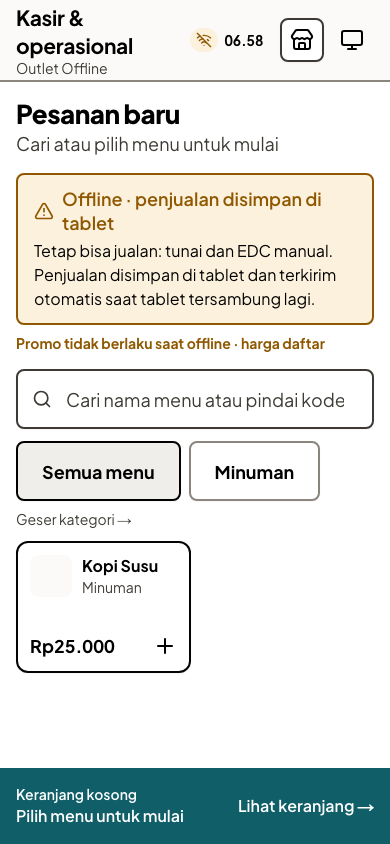
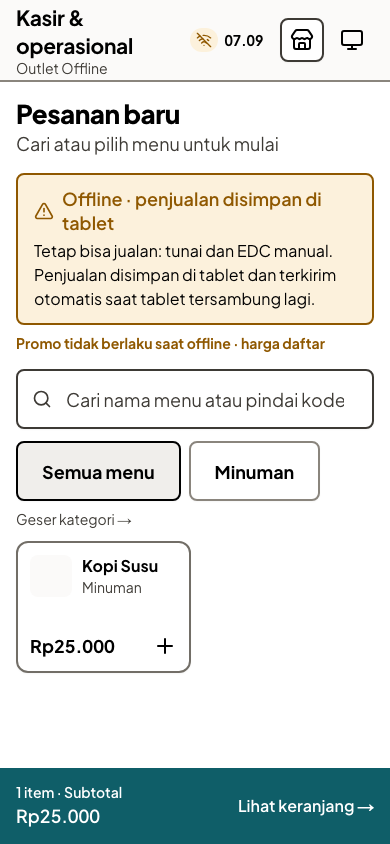
fix(pos): offline navigation keeps last root context; e2e offline scenario WIP
Root beforeLoad read session/brand from the server on every client
navigation, so offline 'Lihat keranjang' landed on the error page.

diff --git a/e2e-offline/pos-offline.spec.ts b/e2e-offline/pos-offline.spec.ts
@@ -1,7 +1,7 @@
 // O5 (legend-wasr7.9): the cashier tablet offline, in a real browser on a
 // tenant host. See playwright.offline.config.ts for the harness.
 //
-// STATUS (27 Nov): WIP, blocked at the first sale. Harness proven (tenant host,
+// STATUS (27 Nov): full scenario. Harness proven (tenant host,
 // cookie domain, session, shift, kit, real offline, screenshots); a click on the
 // menu tile "Kopi Susu" does not add it to the cart in this build, see
 // docs/briefs/1272-o5-progress.md.
@@ -304,6 +304,18 @@ test("the offline till: sell, queue, close refused, ingest once, sign out", asyn
   test.setTimeout(240_000);
   await page.addInitScript((token) => {
     window.localStorage.setItem("legend.device.token", token);
+    // Harness only: these http test origins are not secure contexts (production
+    // is https), so Chromium hides crypto.randomUUID, which the cart needs for
+    // its line ids. Found 27 Nov: without it "Kopi Susu" never reaches the cart.
+    if (typeof crypto.randomUUID !== "function")
+      (crypto as { randomUUID: () => string }).randomUUID = () =>
+        "10000000-1000-4000-8000-100000000000".replace(/[018]/g, (c) =>
+          (
+            Number(c) ^
+            (crypto.getRandomValues(new Uint8Array(1))[0]! &
+              (15 >> (Number(c) / 4)))
+          ).toString(16),
+        ) as `${string}-${string}-${string}-${string}-${string}`;
   }, deviceToken());
   await page.goto("/sign-in");
   const signIn = await browserCall(page, "POST", "/api/auth/sign-in/email", {
@@ -337,15 +349,12 @@ test("the offline till: sell, queue, close refused, ingest once, sign out", asyn
   await expect(offlineBanner).toBeVisible({ timeout: 40_000 });
   await shot(page, "banner");
 
-  // Phones: the cart is its own view, and opening it is a navigation of the
-  // app that needs the internet. Open it while online, then cut the internet
-  // again; the cart and the offline kit stay on the tablet.
-  await context.setOffline(false);
-  await expect(offlineBanner).toBeHidden({ timeout: 60_000 });
+  // Phones: the cart is its own view and opening it is a navigation of the
+  // app. Offline it must still work (release bug found 27 Nov: the root
+  // beforeLoad read the session from the server and landed on "Terjadi
+  // kesalahan"). The cart and the offline kit stay on the tablet.
   await page.getByRole("button", { name: /Lihat keranjang/ }).click();
   await expect(page.getByText("Subtotal · 1 item").first()).toBeVisible();
-  await context.setOffline(true);
-  await page.waitForTimeout(3_000);
 
   for (const viewport of VIEWPORTS) {
     await page.setViewportSize(viewport);
@@ -366,7 +375,7 @@ test("the offline till: sell, queue, close refused, ingest once, sign out", asyn
     await shot(page, "bayar");
     await pay.getByRole("button", { name: "Simpan penjualan" }).click();
     await expect(
-      page.getByText("Penjualan disimpan di tablet").first(),
+      page.getByRole("heading", { name: "Penjualan disimpan di tablet" }),
     ).toBeVisible();
     await shot(page, "tersimpan");
     await page
@@ -384,12 +393,14 @@ test("the offline till: sell, queue, close refused, ingest once, sign out", asyn
   // Nothing reached the cloud while the tablet was offline.
   expect(await offlineSales()).toEqual([]);
 
-  // Shift close is refused while the queue is not empty (the screen is opened
-  // by the app's own router: the tablet has no internet to load a new page).
-  await page.evaluate(() => {
-    window.history.pushState({}, "", "/pos/shift/tutup");
-    window.dispatchEvent(new PopStateEvent("popstate"));
-  });
+  // Shift close is refused while the queue is not empty. The tablet gets its
+  // internet back but the batch endpoint keeps failing (a flaky link), so the
+  // two sales stay on the tablet; the close screen is a real page load.
+  await context.route("**/api/outlets/*/pos/offline-batch", (route) =>
+    route.abort(),
+  );
+  await context.setOffline(false);
+  await page.goto("/pos/shift/tutup");
   await expect(page.getByText("Shift belum bisa ditutup").first()).toBeVisible({
     timeout: 30_000,
   });
@@ -399,10 +410,10 @@ test("the offline till: sell, queue, close refused, ingest once, sign out", asyn
   await shot(page, "keluar");
   await page.getByRole("button", { name: "Tetap di sini" }).click();
   expect(await offlineSales()).toEqual([]);
+  await context.unroute("**/api/outlets/*/pos/offline-batch");
 
   // The internet is back: the queue sends itself, the cloud holds each sale
   // once, at the price the tablet showed (Rp25.000 + PBJT 10%).
-  await context.setOffline(false);
   await expect
     .poll(async () => (await offlineSales()).length, { timeout: 120_000 })
     .toBe(2);

diff --git a/apps/web/src/routes/__root.tsx b/apps/web/src/routes/__root.tsx
@@ -20,6 +20,7 @@ import { Button } from "@/components/ui/button";
 import { PushOwnerGuard } from "@/features/ws05-notifications/components/push-owner-guard";
 import { isScreenClosedOnSharedDevice } from "@/lib/areas/guard";
 import { loadAreaAccess } from "@/lib/areas/load-access";
+import { loadWithOfflineFallback } from "@/lib/offline-navigation";
 import type { AreaAccess } from "@/lib/areas/access";
 import { getSessionFn, type Session } from "@/lib/session";
 import { getTenantBrandFn } from "@/lib/tenant-brand-fn";
@@ -49,38 +50,54 @@ export type RouterContext = {
   textOverrides: MessageOverrides;
 };
 
+type RootContext = Pick<
+  RouterContext,
+  "session" | "access" | "tenantTheme" | "textOverrides"
+>;
+
+// Browser-only memory of the last resolved root context (see beforeLoad).
+let lastRootContext: RootContext | null = null;
+
+async function loadRootContext(): Promise<RootContext> {
+  const [session, brand] = await Promise.all([
+    getSessionFn(),
+    getTenantBrandFn(),
+  ]);
+  const isBrowser = typeof window !== "undefined";
+  let tenantTheme: TenantThemeConfig | null;
+  if (brand.kind === "error") {
+    // A transient API failure keeps the theme the browser already showed.
+    // Browser only: a module variable on the server would leak across hosts.
+    tenantTheme = isBrowser ? lastTenantTheme : null;
+  } else {
+    tenantTheme = brandContextToThemeConfig(
+      brand.kind === "brand" ? brand.brand : null,
+    );
+    if (isBrowser) lastTenantTheme = tenantTheme;
+  }
+  const access = await loadAreaAccess(session);
+  return { session, access, tenantTheme, textOverrides: brand.overrides };
+}
+
 export const Route = createRootRouteWithContext<RouterContext>()({
   // One session read per navigation (the API, via the auth middleware), shared
   // with every route as context. Layouts decide what to do with it; the API
   // still authenticates every request on its own.
   beforeLoad: async ({ location }) => {
-    const [session, brand] = await Promise.all([
-      getSessionFn(),
-      getTenantBrandFn(),
-    ]);
     const isBrowser = typeof window !== "undefined";
-    let tenantTheme: TenantThemeConfig | null;
-    if (brand.kind === "error") {
-      // A transient API failure keeps the theme the browser already showed.
-      // Browser only: a module variable on the server would leak across hosts.
-      tenantTheme = isBrowser ? lastTenantTheme : null;
-    } else {
-      tenantTheme = brandContextToThemeConfig(
-        brand.kind === "brand" ? brand.brand : null,
-      );
-      if (isBrowser) lastTenantTheme = tenantTheme;
-    }
-    const access = await loadAreaAccess(session);
+    // Browser only: with the internet gone (offline till) the last context the
+    // browser resolved stays in force (see lib/offline-navigation).
+    const { session, access, tenantTheme, textOverrides } = isBrowser
+      ? (lastRootContext = await loadWithOfflineFallback(
+          loadRootContext,
+          lastRootContext,
+        ))
+      : await loadRootContext();
     // Shared tablet (founder Q29): screens outside the allowlist do not exist
     // there, in every area. The API refuses their requests as well.
     if (isScreenClosedOnSharedDevice(access, location.pathname))
       throw notFound({ data: { sharedDevice: true } });
-    return {
-      session,
-      access,
-      tenantTheme,
-      textOverrides: brand.overrides,
-    };
+    return { session, access, tenantTheme, textOverrides };
   },
   head: () => ({
     meta: [
@@ -101,10 +118,15 @@ export const Route = createRootRouteWithContext<RouterContext>()({
 });
 
 function RootLayout() {
-  const userId = useRouteContext({
-    from: rootRouteId,
-    select: (context) => context.session?.user.id ?? null,
-  });
+  const rootContext = useRouteContext({ from: rootRouteId });
+  const userId = rootContext.session?.user.id ?? null;
+  // The first page is rendered by the server, so the browser has not resolved
+  // a context itself yet: remember the one it hydrated with, for the offline
+  // till (see lib/offline-navigation).
+  useEffect(() => {
+    const { session, access, tenantTheme, textOverrides } = rootContext;
+    lastRootContext = { session, access, tenantTheme, textOverrides };
+  }, [rootContext]);
   return (
     <>
       <PushOwnerGuard userId={userId} />

diff --git a/apps/web/test/offline-navigation-context.test.ts b/apps/web/test/offline-navigation-context.test.ts
@@ -1,0 +1,63 @@
+import { describe, expect, it } from "vitest";
+import { loadWithOfflineFallback } from "@/lib/offline-navigation";
+
+// O5 release bug (27 Nov): on the offline tablet every in-app navigation (phone
+// "Lihat keranjang", "Tutup shift") ran the root beforeLoad, whose server
+// calls need the internet, and landed on "Terjadi kesalahan". While the
+// network is gone the last context the browser resolved stays in force; the
+// API still authenticates every request on its own.
+
+describe("loadWithOfflineFallback", () => {
+  it("returns the fresh value while online", async () => {
+    const out = await loadWithOfflineFallback(async () => "fresh", "old", {
+      offline: () => false,
+    });
+    expect(out).toBe("fresh");
+  });
+
+  it("keeps the last value when the network is gone", async () => {
+    const out = await loadWithOfflineFallback(
+      async () => {
+        throw new TypeError("Failed to fetch");
+      },
+      "old",
+      { offline: () => true },
+    );
+    expect(out).toBe("old");
+  });
+
+  it("keeps the last value on a fetch TypeError even if the browser says online", async () => {
+    const out = await loadWithOfflineFallback(
+      async () => {
+        throw new TypeError("Failed to fetch");
+      },
+      "old",
+      { offline: () => false },
+    );
+    expect(out).toBe("old");
+  });
+
+  it("rethrows when there is no earlier value", async () => {
+    await expect(
+      loadWithOfflineFallback(
+        async () => {
+          throw new TypeError("Failed to fetch");
+        },
+        null,
+        { offline: () => true },
+      ),
+    ).rejects.toThrow("Failed to fetch");
+  });
+
+  it("rethrows a real server error while online", async () => {
+    await expect(
+      loadWithOfflineFallback(
+        async () => {
+          throw new Error("boom");
+        },
+        "old",
+        { offline: () => false },
+      ),
+    ).rejects.toThrow("boom");
+  });
+});

diff --git a/apps/web/src/lib/offline-navigation.ts b/apps/web/src/lib/offline-navigation.ts
@@ -1,0 +1,34 @@
+// The offline tablet keeps working inside the app (phone cart view, close
+// shift, sign out) but every navigation re-reads the session, tenant brand and
+// area access from the server. With the internet gone those calls fail and the
+// whole app lands on the error page (O5, 27 Nov). While the network is gone the
+// last context the browser resolved stays in force; it is presentation only,
+// the API still authenticates every request on its own.
+
+type Options = {
+  /** True when the browser knows it has no connection. */
+  offline?: () => boolean;
+};
+
+function browserOffline(): boolean {
+  return typeof navigator !== "undefined" && navigator.onLine === false;
+}
+
+/**
+ * Runs `load`; when it fails because the network is gone and an earlier value
+ * exists, returns that earlier value. Any other failure is rethrown.
+ */
+export async function loadWithOfflineFallback<T>(
+  load: () => Promise<T>,
+  last: T | null,
+  options: Options = {},
+): Promise<T> {
+  try {
+    return await load();
+  } catch (error) {
+    const offline = (options.offline ?? browserOffline)();
+    const networkFailure = error instanceof TypeError;
+    if (last !== null && (offline || networkFailure)) return last;
+    throw error;
+  }
+}
